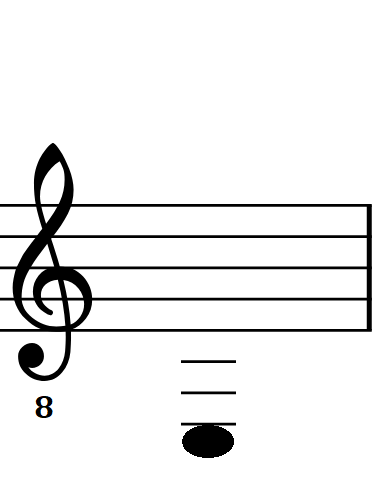
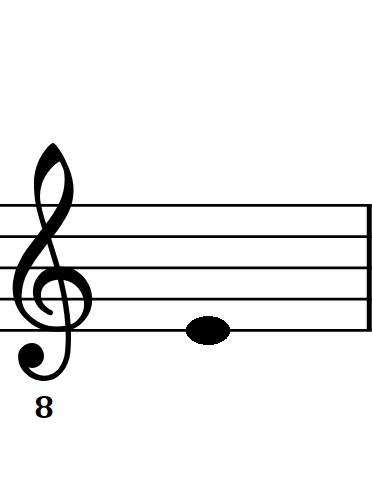
feat: add all notes +adapt code

Changed region(s): [[0.4731, 0.8805, 0.6505, 0.9686], [0.4731, 0.6457, 0.621, 0.7631], [0.4731, 0.8218, 0.621, 0.8512]]

diff --git a/src/view/viewer.py b/src/view/viewer.py
@@ -6,6 +6,7 @@ from PySide6.QtCore import QTimer
 from PySide6.QtGui import QPixmap
 from PySide6.QtWidgets import (QHBoxLayout, QLabel, QPushButton, QSizePolicy,
                                QSpacerItem, QVBoxLayout, QWidget)
+from src.view.note import Note
 
 
 class Viewer(QWidget):
@@ -14,15 +15,14 @@ class Viewer(QWidget):
         self.image_load_timer_in_ms = image_load_timer_in_ms
 
         super().__init__()
+        self.setWindowTitle("Training")
 
-        vbox = QVBoxLayout()
-        self.image_label = QLabel()
-        vbox.addWidget(self.image_label)
+        self.root_layout = vbox = QVBoxLayout()
+        #self.image_label = QLabel()
+        #vbox.addWidget(self.image_label)
         self.setLayout(vbox)
 
         if self.image_load_timer_in_ms is not None:
-            self.load_image()
-
             self.timer = QTimer()
             self.timer.timeout.connect(self.load_image)
             self.timer.start(image_load_timer_in_ms)
@@ -37,14 +37,31 @@ class Viewer(QWidget):
 
             hbox.addItem(spacer)
             hbox.addWidget(self.next_button)
-
             vbox.addLayout(hbox)
-            self.load_image()
+
+        self.current_note = None
+        self.image_names = [
+            image_name
+            for image_name in os.listdir(self.images_dir)
+            if not image_name.startswith("_")
+        ]
+
+        self.load_image()
 
     def next_image(self) -> Path:
-        image_file = random.choice(os.listdir(self.images_dir))
-
+        image_file = random.choice(self.image_names)
         return self.images_dir / image_file
 
     def load_image(self):
-        self.image_label.setPixmap(QPixmap(self.next_image()))
+        next_note = Note(self.next_image())
+
+        if self.current_note is None:
+            self.current_note = next_note
+            self.root_layout.addWidget(self.current_note)
+        else:
+            self.root_layout.removeWidget(self.current_note)
+            self.current_note = next_note
+            self.root_layout.addWidget(self.current_note)
+
+        self.update()
+

diff --git a/src/view/note.py b/src/view/note.py
@@ -1,0 +1,34 @@
+from pathlib import Path
+
+from PySide6.QtGui import QPixmap
+from PySide6.QtWidgets import QWidget, QVBoxLayout, QLabel
+from src.custom_types import NoteType
+
+def map_note_type(image_path: Path) -> NoteType:
+    image_name = image_path.name.split(".")[0]
+
+    if image_name.startswith("'"):  # ''f
+        image_name = image_name[::-2].upper()
+
+    print("Note:", image_name, flush=True)
+    return NoteType(image_name)
+
+class Note(QWidget):
+    def __init__(self, image_path: Path):
+        super().__init__()
+        self.image_label = QLabel()
+
+        self.note_type = map_note_type(image_path=image_path)
+        self.image_path = image_path
+
+        self.qpixmap = QPixmap(image_path)
+        self.image_label.setPixmap(self.qpixmap)
+
+        vbox = QVBoxLayout()
+        vbox.addWidget(self.image_label)
+        self.setLayout(vbox)
+
+    @property
+    def name(self) -> str:
+        return str(self.note_type)
+

diff --git a/src/custom_types.py b/src/custom_types.py
@@ -1,0 +1,31 @@
+from enum import StrEnum
+
+
+class NoteType(StrEnum):
+    E = "E"
+    F = "F"
+    G = "G"
+    A = "A"
+    H = "H"
+    c = "c"
+    d = "d"
+    e = "e"
+    f = "f"
+    g = "g"
+    a = "a"
+    h = "h"
+    c_ = "c'"
+    d_ = "d'"
+    e_ = "e'"
+    f_ = "f'"
+    g_ = "g'"
+    a_ = "a'"
+    h_ = "h'"
+    c__ = "c''"
+    d__ = "d''"
+    e__ = "e''"
+    f__ = "f''"
+    g__ = "g''"
+    a__ = "a''"
+    h__ = "h''"
+    c___ = "c'''"

diff --git a/src/main.py b/src/main.py
@@ -9,7 +9,7 @@ app = QApplication(sys.argv)
 
 viewer = Viewer(
     images_dir=IMAGES_PATH,
-    image_load_timer_in_ms=LOAD_IMAGE_TIMER_IN_MS,
+    # image_load_timer_in_ms=LOAD_IMAGE_TIMER_IN_MS,
 )
 
 viewer.show()

diff --git a/src/config.py b/src/config.py
@@ -1,4 +1,4 @@
 from pathlib import Path
 
 IMAGES_PATH = Path(__file__).absolute().resolve().parent.parent / "images"
-LOAD_IMAGE_TIMER_IN_MS = 5000
+LOAD_IMAGE_TIMER_IN_MS = 3000
